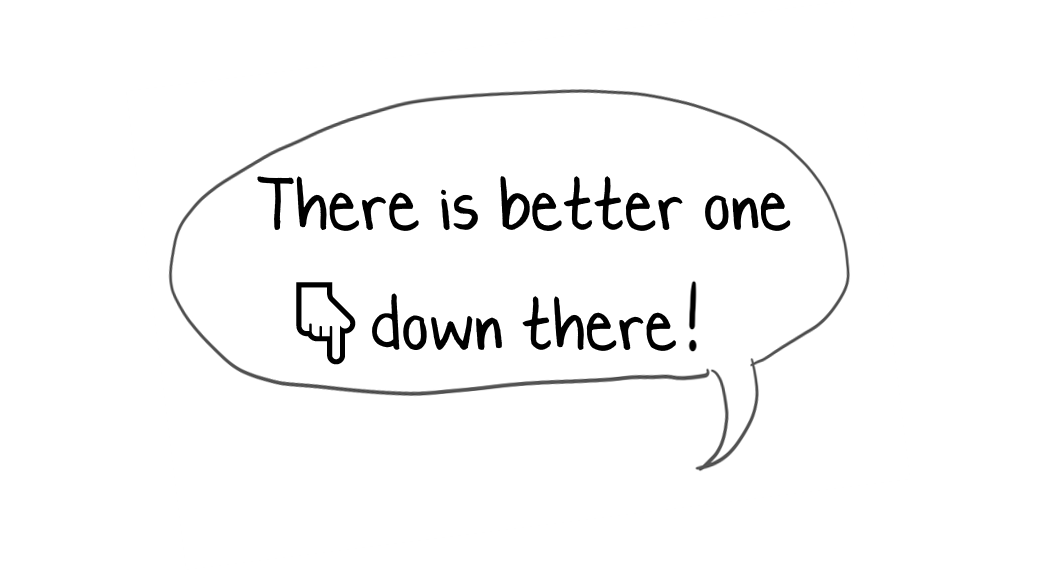
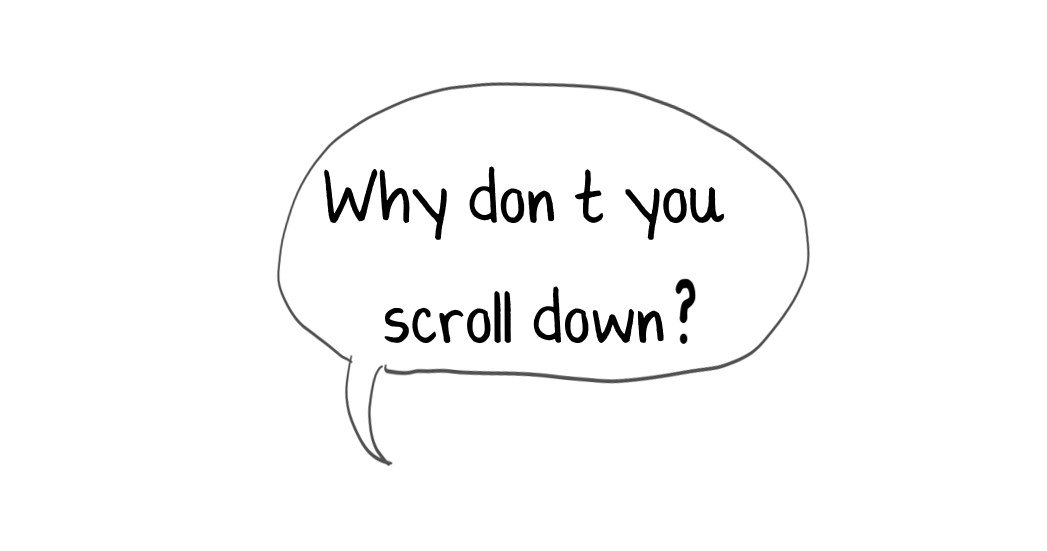
modified text balloon of companion

diff --git a/src/components/DetailPage/style.css b/src/components/DetailPage/style.css
@@ -358,39 +358,38 @@ table {
 #a1,#a2,#a3,#a4,#a5,#a6,#a7{
   width: 250px;
   position: fixed;
-  bottom: 0;
+  right:0;
+  bottom:0;
   visibility: hidden;
 }
 #a1{
-  right:0;
-  bottom:0;
-  margin-right: -175vh;
-  margin-bottom: 35vh;
+  margin-right: 1vh;
+  margin-bottom: 23vh;
 }
 #a2{
-  margin-left: 175vh;
+  margin-right: 1vh;
   margin-bottom: 25vh;
 }
 #a3{
-  margin-left: 175vh;
+  margin-right: 1vh;
   margin-bottom: 25vh;
 }
 #a4{
-  margin-left: 175vh;
+  margin-right: 1vh;
   margin-bottom: 40vh;
   /* height: 80px;
   width: 250px; */
 }
 #a5{
-  margin-left: 176vh;
+  margin-right: 1vh;
   margin-bottom: 26vh;
 }
 #a6{
-  margin-left: 175vh;
+  margin-right: 1vh;
   margin-bottom: 23vh;
 }
 #a7{
-  margin-left: 175vh;
+  margin-right: 1vh;
   margin-bottom: 25vh;
 }
 

diff --git a/src/components/DetailPage/index.js b/src/components/DetailPage/index.js
@@ -311,7 +311,7 @@ function DetailPage(props) {
 
                 var clicked = !!(docs['wished'].indexOf(doc.id) + 1);
                 setClick(clicked);
-                if(ecoval==0){
+    if(ecoval==0){
       setTextBalloon('/images/text27.png')
       setImgId("a7")
     }
@@ -320,8 +320,8 @@ function DetailPage(props) {
       setImgId("a5")
     }
     else{
-      setTextBalloon("/images/text24.png")
-      setImgId("a4")
+      setTextBalloon("/images/text26.png")
+      setImgId("a6")
     }
               });
           }
